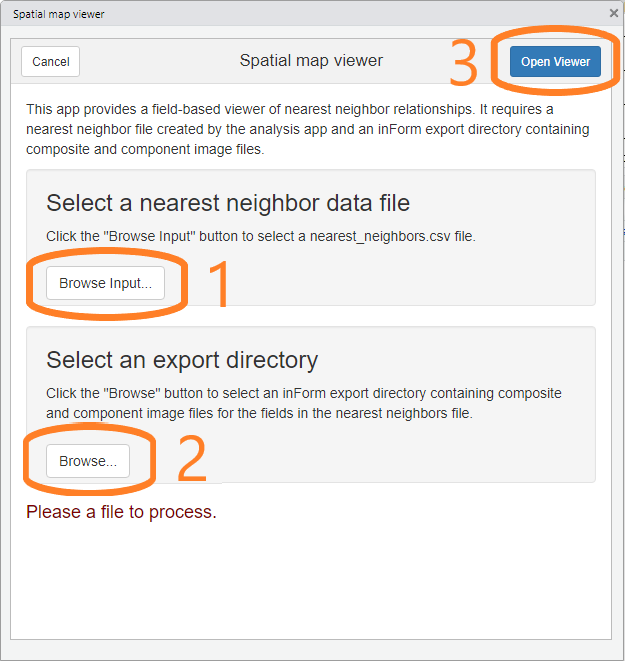
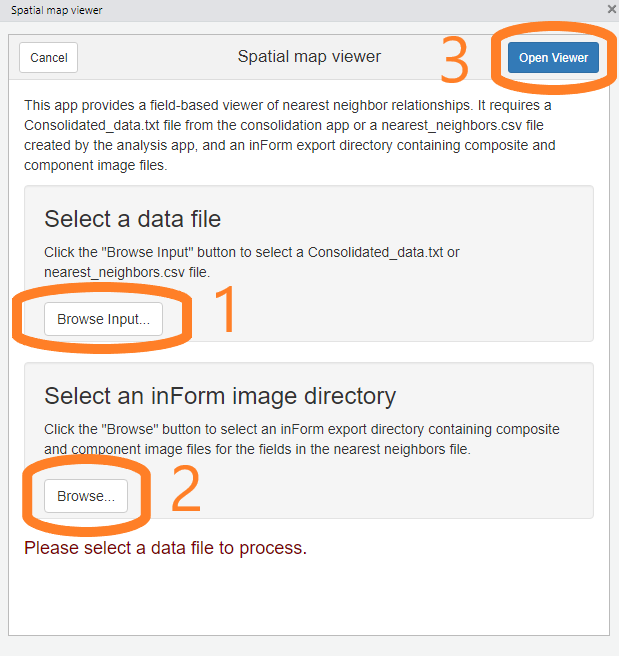
Documentation update with changes to the requirement for a nearest_neighbors.csv file.

Changed region(s): [[0.0, 0.0, 1.0, 1.0], [0.3683, 0.061, 0.6139, 0.122]]

diff --git a/docs/articles/spatial_map_viewer.html b/docs/articles/spatial_map_viewer.html
@@ -30,7 +30,7 @@
       </button>
       <span class="navbar-brand">
         <a class="navbar-link" href="../index.html">phenoptrReports</a>
-        <span class="version label label-default" data-toggle="tooltip" data-placement="bottom" title="Released version">0.2.2</span>
+        <span class="version label label-default" data-toggle="tooltip" data-placement="bottom" title="Released version">0.2.2.9000</span>
       </span>
     </div>
 
@@ -97,7 +97,7 @@
       <h1>Viewing nearest neighbors</h1>
                         <h4 class="author">Kent Johnson</h4>
             
-            <h4 class="date">2019-06-18</h4>
+            <h4 class="date">2019-06-25</h4>
       
       <small class="dont-index">Source: <a href="https://github.com/akoyabio/phenoptrReports/blob/master/vignettes/spatial_map_viewer.Rmd"><code>vignettes/spatial_map_viewer.Rmd</code></a></small>
       <div class="hidden name"><code>spatial_map_viewer.Rmd</code></div>
@@ -114,10 +114,10 @@
 <div id="data-requirements" class="section level2">
 <h2 class="hasAnchor">
 <a href="#data-requirements" class="anchor"></a>Data requirements</h2>
-<div id="nearest-neighbors-data-file" class="section level3">
+<div id="consolidated-data-file" class="section level3">
 <h3 class="hasAnchor">
-<a href="#nearest-neighbors-data-file" class="anchor"></a>Nearest neighbors data file</h3>
-<p>Nearest neighbor relationships are read from a <code>nearest_neighbors.csv</code> file. This file is created by the “Analyze consolidated data” addin when “Save nearest neighbor details” is selected.</p>
+<a href="#consolidated-data-file" class="anchor"></a>Consolidated data file</h3>
+<p>This addin requires reads data from the <code>Consolidated_data.txt</code> file created by the “Consolidate and summarize” addin. It can also use the <code>nearest_neighbors.csv</code> file created by the “Analyze consolidated data” addin when “Save nearest neighbor details” is selected.</p>
 </div>
 <div id="composite-and-component-image-files" class="section level3">
 <h3 class="hasAnchor">
@@ -151,7 +151,7 @@
 <a href="#nearest-neighbor-viewer" class="anchor"></a>Nearest neighbor viewer</h3>
 <p>The nearest neighbor viewer allows you to</p>
 <ol style="list-style-type: decimal">
-<li><p><strong>Select and color phenotypes</strong> In this section, select the two phenotypes of interest and the colors to use to display the phenotypes. <strong>Important!</strong> Only single phenotypes are supported. Double-positive phenotypes may not be used here.</p></li>
+<li><p><strong>Select and color phenotypes</strong> In this section, select the two phenotypes of interest and the colors to use to display the phenotypes. Both single phenotypes such as <code>CD8+</code> and multiple phenotypes such as <code>CD8+/PDL1+</code> are supported.</p></li>
 <li><p><strong>Select a field to view</strong> Use the dropdown to select a particular field, or use the Previous and Next buttons to browse through all the fields.</p></li>
 <li><p><strong>Select the type of nearest neighbor relationship</strong> “Nearest neighbor” is not a symmetric relationship—cell A may have a nearest neighbor B, whose nearest neighbor is not A. Try the different settings to find the one you want.</p></li>
 <li><p><strong>Control the dot size</strong> This slider controls the size of the dots displaying the cells. You may want to make the dots smaller before saving images.</p></li>
@@ -170,7 +170,7 @@
 <li><a href="#overview">Overview</a></li>
       <li>
 <a href="#data-requirements">Data requirements</a><ul class="nav nav-pills nav-stacked">
-<li><a href="#nearest-neighbors-data-file">Nearest neighbors data file</a></li>
+<li><a href="#consolidated-data-file">Consolidated data file</a></li>
       <li><a href="#composite-and-component-image-files">Composite and component image files</a></li>
       </ul>
 </li>

diff --git a/docs/index.html b/docs/index.html
@@ -30,7 +30,7 @@
       </button>
       <span class="navbar-brand">
         <a class="navbar-link" href="index.html">phenoptrReports</a>
-        <span class="version label label-default" data-toggle="tooltip" data-placement="bottom" title="Released version">0.2.2</span>
+        <span class="version label label-default" data-toggle="tooltip" data-placement="bottom" title="Released version">0.2.2.9000</span>
       </span>
     </div>
 
@@ -156,7 +156,7 @@
 <h3 class="hasAnchor">
 <a href="#visualization-of-spatial-relationships" class="anchor"></a>Visualization of spatial relationships</h3>
 <p>The <strong>Spatial map viewer</strong> addin creates visualizations of nearest neighbors of selected phenotypes within individual fields. The visualizations can be saved for use in other applications.</p>
-<p>The spatial map viewer requires a <code>nearest_neighbors.csv</code> file created by the analysis addin and in inForm export folder containing composite and component images.</p>
+<p>The spatial map viewer requires a <code>Consolidated_data.txt</code> file from the consolidation app or the <code>nearest_neighbors.csv</code> file created by the analysis addin, and an inForm image directory containing composite and component images.</p>
 <p>For detailed instructions and requirements, see the <a href="https://akoyabio.github.io/phenoptrReports/articles/spatial_map_viewer.html">Visualizing spatial relationships tutorial</a>.</p>
 </div>
 <div id="unmixing-quality-report" class="section level3">

diff --git a/README.md b/README.md
@@ -103,8 +103,9 @@ The **Spatial map viewer** addin creates visualizations of nearest neighbors of
 selected phenotypes within individual fields. The visualizations can be saved 
 for use in other applications.
 
-The spatial map viewer requires a `nearest_neighbors.csv` file created by
-the analysis addin and in inForm export folder containing composite and
+The spatial map viewer requires a `Consolidated_data.txt` file from the
+consolidation app or the `nearest_neighbors.csv` file created by
+the analysis addin, and an inForm image directory containing composite and
 component images.
 
 For detailed instructions and requirements, see the 
